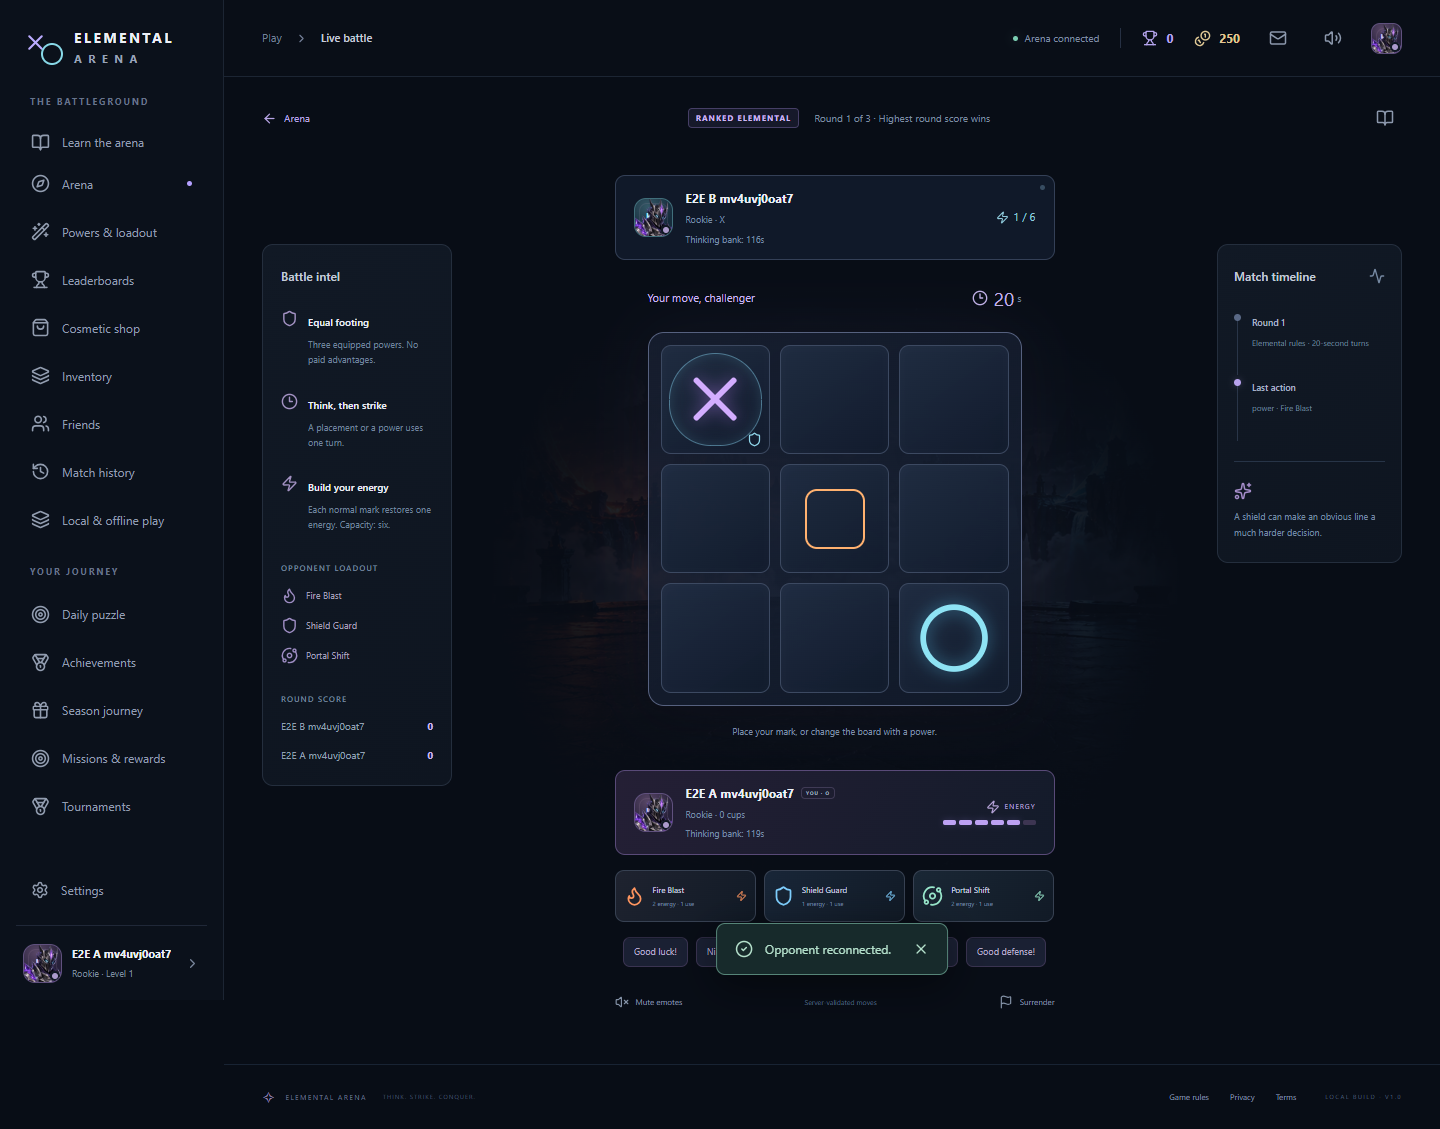
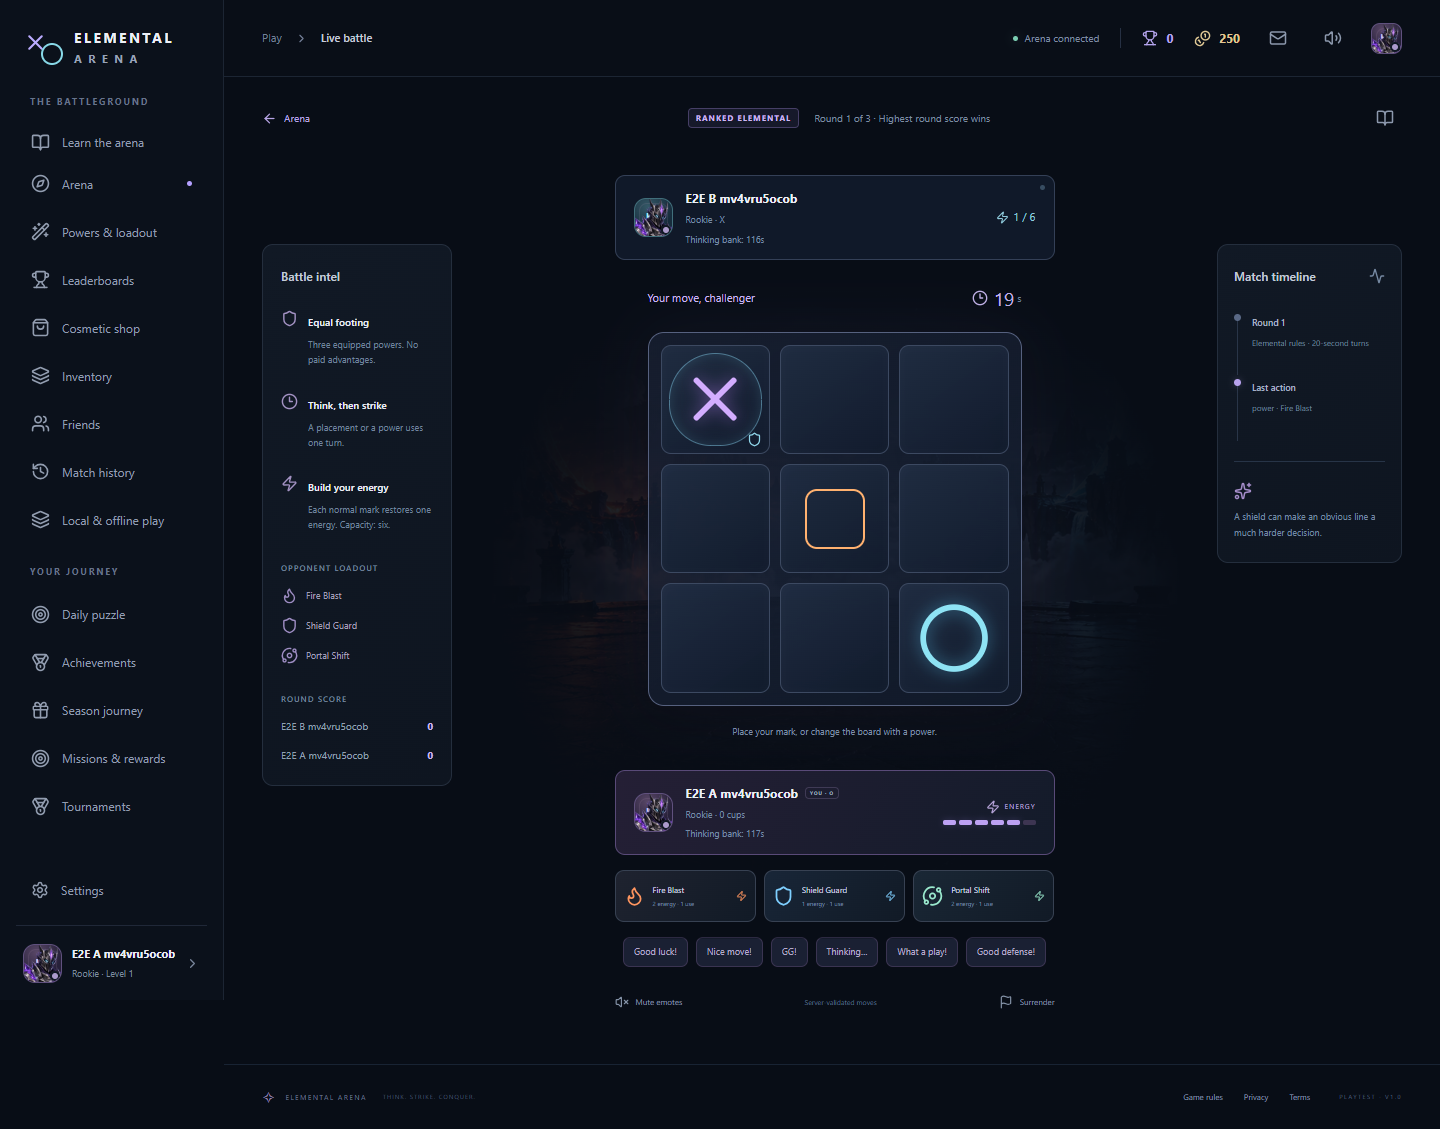
Document verified Railway playtest and save cloud QA evidence

diff --git a/docs/STATUS.md b/docs/STATUS.md
@@ -25,7 +25,7 @@ The platform never sells stronger powers, cups, extra ranked turns, or competiti
 | Tournaments | Real single-elimination brackets; registration, manual or scheduled start, synchronized matches, advancement, draw replay, champion view and exactly-once champion coins | No other bracket formats are claimed |
 | Administration | Role-protected metrics, queue/economy/integrity views, players, reports, matches, tournaments, seasons, cosmetics, missions, announcements and audit records | Create the initial administrator through the local operator command |
 | Accessibility | Keyboard controls, named inputs, modal focus management, reduced motion, contrast, responsive layouts and mobile navigation | Broader assistive-technology testing remains part of public release QA |
-| Operations | Managed isolated MySQL, repeatable setup/seed/migrations, local launch/stop, persistent Node runtime, health checks and Docker configuration | Docker and credential-dependent external services require verification in their target environment |
+| Operations | Managed isolated MySQL, repeatable setup/seed/migrations, local launch/stop, persistent Node runtime, health checks and Docker configuration | Linux Docker build and Railway app/private MySQL verified; provider integrations and commercial operations remain |
 
 ## Automated evidence
 
@@ -54,4 +54,18 @@ Browser cleanup only touches exact fixture IDs written to `.runtime/e2e-test-use
 
 ## External launch work
 
-The laptop build can provide a substantial working game without pretending that third-party services are configured. Public launch additionally needs an actual hosting environment, HTTPS, backups, monitoring, sender/email credentials, Google OAuth credentials if enabled, and real operator moderation. Payment and advertising integrations need the intended provider and region; until then, the UI must describe their availability honestly. Multi-server deployment additionally needs a Socket.IO adapter and shared queues, presence, rate limits and match coordination.
+The cloud playtest is deployed on Railway with HTTPS and private MySQL. Commercial launch additionally needs tested backups/restore, ongoing monitoring, sender/email credentials, Google OAuth credentials if enabled, and real operator moderation. Payment and advertising integrations need the intended provider and region; until then, the UI must describe their availability honestly. Multi-server deployment additionally needs a Socket.IO adapter and shared queues, presence, rate limits and match coordination.
+
+## Railway cloud playtest — 12 October 2026
+
+[Play Elemental Arena](https://elemental-arena-production.up.railway.app). The application is pinned to verified source commit `a57614dcc984d506feed5a5be00ff8348e2267b7`; a normal GitHub push does not silently replace the live coordinator. It runs independently of the laptop. Railway account and trial limits still apply.
+
+The Linux container build succeeded. Fresh database setup exposed two Windows-origin table-name casing errors. An exact-checksum guarded compatibility bootstrap completed their equivalent canonical DDL in the empty Linux database, preserved the historical migration SQL and checksums, and completed all five migrations. Seven safety tests cover source/history mismatch, nonempty data, unrelated failures, incompatible schema and interrupted completion. Five proxy identity tests also pass.
+
+All seven browser flows passed through Railway HTTPS in 4.1 minutes: ranked powers/cups/replay, AI practice and cosmetics/settings, social/private/reconnect/rematch, genuinely offline Classic, invitations/spectating/privacy controls, interactive tutorials, and human Quick Match. Cloud administration fixture promotion was disabled; administration and tournament operations remain covered by the earlier real local MySQL suite. No payment, email or Google provider is represented as live.
+
+Cloud desktop/mobile checks reported no browser errors, missing image assets or horizontal overflow. Health returned HTTP 200, unauthenticated admin returned HTTP 401, a rejected Origin returned HTTP 403, and local environment/runtime paths returned HTTP 404. Secure/HTTP-only/SameSite=Lax cookie flags were checked. The database was restarted with its persistent volume; all ten recorded test accounts remained and were subsequently removed with six finished test matches by the guarded private cleanup job. An outside account was preserved. No E2E account remains on the leaderboard.
+
+The app uses one replica, a 1 GB cap and no sleeping. MySQL has no public domain/TCP proxy, a 750 MB cap, a 128 MB buffer pool, limit of 60 connections and a 500 MB persistent volume. The completed private `qa-cleanup` service remains because its deletion approval was declined; it has no public endpoint and its restart policy is Never.
+
+Both final cloud and local health returned HTTP 200. The temporary laptop tunnel is closed, its prior local origin/proxy settings are restored, and the laptop production build is updated. Detailed evidence is in `cloud-verification.json`; screenshots are `screenshots/cloud-lobby-1440.png` and `screenshots/cloud-lobby-390.png`.

diff --git a/README.md b/README.md
@@ -1,18 +1,20 @@
 # Tic Tac Toe: Elemental Arena
 
-A local Next.js and Socket.IO strategy game with a MySQL source of truth. Ranked Elemental Battle is the flagship design: three equipped powers per player, 20-second turns, a target match length of 2–5 minutes, and progressively enabled powers. Cosmetic progression avoids selling combat strength.
+**[Play the Railway cloud playtest](https://elemental-arena-production.up.railway.app)** — runs independently of your laptop; Railway account/trial limits apply.
 
-**Verified:** production build, 59 core tests, seven real browser flows, and 24 desktop/mobile visual checks pass.
+A Next.js and Socket.IO strategy game with a MySQL source of truth. Ranked Elemental Battle is the flagship design: three equipped powers per player, 20-second turns, a target match length of 2–5 minutes, and progressively enabled powers. Cosmetic progression avoids selling combat strength.
+
+**Verified:** local and Linux cloud production builds; 59 core tests plus 12 proxy/bootstrap safety tests; seven local browser flows and seven cloud browser flows; 24 local layout checks plus desktop/mobile cloud checks. Cloud browser verification passed in 4.1 minutes.
 
 **On this laptop, double-click `START-GAME.cmd` to launch.** The app opens at `http://localhost:3000`. Double-click `STOP-GAME.cmd` to stop it. Keep this folder together; the managed database and private environment are stored inside its excluded `.runtime` and `.env` paths.
 
 Use `CREATE-ADMIN.cmd` to provision your chosen administrator through the local operator prompt.
 
-See [setup and troubleshooting](docs/SETUP.md), [game rules](docs/RULES.md), [backend and provider configuration](docs/BACKEND.md), [generated artwork](docs/ASSETS.md), [implementation and verification status](docs/STATUS.md), and the source below.
+See [setup and troubleshooting](docs/SETUP.md), [game rules](docs/RULES.md), [backend and provider configuration](docs/BACKEND.md), [generated artwork](docs/ASSETS.md), [implementation and verification status](docs/STATUS.md), [cloud deployment operations](docs/DEPLOYMENT.md), [cloud verification evidence](docs/cloud-verification.json), and the source below.
 
 The implemented game includes human Ranked, Quick, Classic and private multiplayer; validated elemental powers; seven AI levels; accounts and guest upgrades; five leaderboard categories; editable profiles with privacy controls; replays and tactical highlights; earned-coin cosmetics; friend invitations and spectating; daily and weekly rewards; seasonal XP; tournaments; and protected administration. Ranked queues require another real player; they never substitute a bot. Classic games use one round, while Elemental games use up to three rounds.
 
-Six powers are released and sixteen further concepts are explicitly planned. Interactive lessons, a shared daily puzzle, and Classic that works offline after its first visit extend practice. Google sign-in and reset/verification emails require the operator's provider credentials and delivery adapter. Real-money checkout, premium passes and rewarded ads are unavailable. This is a one-server local build; public hosting still requires operational setup, and multiple server replicas require distributed coordination. The 2–5-minute duration is a playtest target, not a measured guarantee.
+Six powers are released and sixteen further concepts are explicitly planned. Interactive lessons, a shared daily puzzle, and Classic that works offline after its first visit extend practice. Google sign-in and reset/verification emails require the operator's provider credentials and delivery adapter. Real-money checkout, premium passes and rewarded ads are unavailable. The Railway playtest runs one game server with a private MySQL database. Commercial release still needs backups, ongoing monitoring, moderation and human load/balance testing. Multiple server replicas require distributed coordination. The 2–5-minute duration is a playtest target, not a measured guarantee.
 
 | Folder or file | Purpose |
 | --- | --- |

diff --git a/docs/DEPLOYMENT.md b/docs/DEPLOYMENT.md
@@ -54,3 +54,15 @@ Confirm that logs show migrations applied, the catalog seeded, and `arena_ready`
 Run broad automated browser verification against an isolated staging environment, not a database containing unrelated public players. The local test suite can target a staging origin using `E2E_BASE_URL`; that origin must be allowed by the server's `APP_ORIGIN`. Remove only recorded fixture IDs using the guarded cleanup script. Do not run MySQL backend fixtures against the public production database.
 
 Create the initial administrator through `node src/server/create-admin.mjs` in a private Railway operator shell, using chosen operator credentials. Registration never creates administrators. Before a durable public release, configure database backups, restore verification, ongoing monitoring, actual moderation and measured multiplayer load/balance testing. This document describes the deployable configuration; the Railway environment itself is verified only after its build and live checks succeed.
+
+## Current verified playtest
+
+Public game: https://elemental-arena-production.up.railway.app
+
+Repository: https://github.com/Abish133/Tick-tack-toe
+
+Project: `acc26b6a-93ae-4a71-9ff4-6530b8422722`; environment: `75a274f4-9d00-4dfa-89c8-708f9a25f8d0`. App service: `213443c6-55e7-40cf-8074-90f48b83461a`; private MySQL service: `9302a8c8-b29d-4d94-9fa8-4fb6717f8620`. Verified app deployment: `4077000f-8afb-4151-ae4d-d4d1cbd0a149`, source commit `a57614dcc984d506feed5a5be00ff8348e2267b7`.
+
+Both persistent services use one replica in `iad`. The app limit is 1 GB/1 CPU; MySQL is 750 MB/1 CPU with a 128 MB buffer pool and 60 connections, backed by a 500 MB volume. Health timeout is 180 seconds; sleeping is disabled. Authentication secrets and database credentials stay in private Railway variables. The source is pinned so ordinary pushes do not start a second coordinator. Stop the existing app before deliberately deploying a new version until distributed ownership is implemented.
+
+The optional private cleanup job runs `node scripts/cleanup-e2e-job.mjs`, with `E2E_CLEANUP_JOB=confirmed`, exact recorded ID arrays in `E2E_USER_IDS_JSON`/`E2E_TOURNAMENT_IDS_JSON`, and a private database reference. It creates no HTTP listener, must have no public domain and uses restart policy Never. Its guard refuses non-fixture users, unfinished matches and outside opponents. The completed `qa-cleanup` service remains because deletion was not approved; no volume is attached to it.
